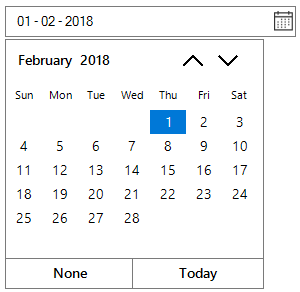
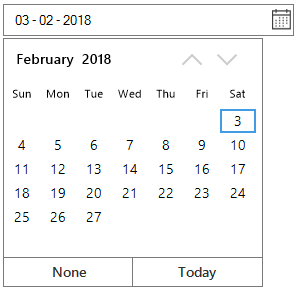
WF-41005 - Publish documentation for SfCalendar control & WF-41008 - Ensure the Screenshot, Content, Spell Errors in documentation for SfDateTimeEdit control

diff --git a/WindowsForms/SfCalendar/appearance.md b/WindowsForms/SfCalendar/appearance.md
@@ -1,6 +1,6 @@
 ---
 layout: post
-title: Appearance of header, footer and cells of SfCalendar control for Windows Forms
+title: Appearance of SfCalendar control for Windows Forms
 description: The appearance of header, footer and cells.
 platform: WindowsForms
 control: SfCalendar
@@ -456,32 +456,6 @@ Me.sfCalendar.NavigationButtonAlignment = Syncfusion.WinForms.Input.Enums.Naviga
 
 ![](appearance-images/navbuttonalignboth.png)
 
-## Change the visibility of the Vertical splitter
-
-Visibility of vertical splitter in calendar control can be customized by setting the `ShowVerticalSplitter`property. The following code example illustrates the same.
-
-{% tabs %}
-
-{% highlight C# %}
-
-// Indicating whether the dates of each columns in the SfCalendar are separated with vertical splitter.
-
-this.sfCalendar.ShowVerticalSplitter = true;
-
-{% endhighlight  %}
-
-{% highlight VB %}
-
-' Indicating whether the dates of each columns in the SfCalendar are separated with vertical splitter.
-
-Me.sfCalendar.ShowVerticalSplitter = true
-
-{% endhighlight  %}
-
-{% endtabs %}
-
-![](appearance-images/verticalsplitter.png)
-
 ## Change the visibility of the footer Today or None Button
 
 Visibility of the calendar footer Today/None button can be customized by using `ShowToday` and `ShowNone` properties. The following code example illustrates the same.
@@ -537,3 +511,53 @@ Me.sfCalendar.ShowToday = false
 {% endtabs %}
 
 ![](appearance-images/shownone.png)
+
+## Customize splitter appearance
+
+Visibility of splitters in calendar control can be customized by setting the `ShowHorizontalSplitter` and `ShowVerticalSplitter` properties respectively. Also splitters color can be customized by `HorizontalSplitterColor` and `VerticalSplitterColor` for horizontal and vertical Splitters respectively. The following code example illustrates the same.
+
+{% tabs %}
+
+{% highlight C# %}
+
+// Enable Horizontal splitter
+
+ this.sfCalendar.ShowHorizontalSplitter = true;
+
+// Enable Vertical splitter
+
+this.sfCalendar.ShowVerticalSplitter = true;
+
+//  color used draw the Horizontal splitter in cell view
+
+this.sfCalendar.Style.HorizontalSplitterColor = Color.Red;
+
+// color used draw the vertical splitter in cell view
+
+this.sfCalendar.Style.VerticalSplitterColor = Color.Green;
+
+{% endhighlight  %}
+
+{% highlight VB %}
+
+' Enable Horizontal splitter
+
+Me.sfCalendar.ShowHorizontalSplitter = true
+
+' Enable Vertical splitter
+
+Me.sfCalendar.ShowVerticalSplitter = true
+
+'  color used draw the Horizontal splitter in cell view
+
+Me.sfCalendar.Style.HorizontalSplitterColor = Color.Red
+
+' color used draw the vertical splitter in cell view
+
+Me.sfCalendar.Style.VerticalSplitterColor = Color.Green
+
+{% endhighlight  %}
+
+{% endtabs %}
+
+![](appearance-images/splittercolor.png)

diff --git a/WindowsForms/SfDateTimeEdit/Editing-Support.md b/WindowsForms/SfDateTimeEdit/Editing-Support.md
@@ -50,7 +50,7 @@ dateTimeEdit.DateTimeEditingMode = DateTimeEditingMode.Default
 
 ## Mask Editing
 
-The Mask Edit mode provides an easy and reliable way of collecting user input and displaying standard data in a specific format. In Mask editing mode the date will be separated into different fields such as Date, Month, Year, Minutes, Hours and Seconds. The field can be updated by selecting the field and pressing the UP or Down arrow to increment or decrement the selected field. The following code snippets illustrates the same.
+The Mask Edit mode provides an easy and reliable way of collecting user input and displaying standard data in a specific format. In Mask editing mode the date will be separated into different fields such as Date, Month, Year, Minutes, Hours and Seconds. The field can be updated by selecting the field and pressing the UP or DOWN arrow to increment or decrement the selected field. The following code snippets illustrates the same.
 
 {% tabs %}
 
@@ -60,7 +60,7 @@ Syncfusion.WinForms.Input.SfDateTimeEdit dateTimeEdit = new Syncfusion.WinForms.
 
 this.Controls.Add(dateTimeEdit);
 
-dateTimeEdit.Value = new DateTime(2017, 6, 27);
+dateTimeEdit.Value = new DateTime(2018, 2, 01);
 
 dateTimeEdit.DateTimeEditingMode = DateTimeEditingMode.Mask;
 
@@ -72,7 +72,7 @@ Dim dateTimeEdit As Syncfusion.WinForms.Input.SfDateTimeEdit = New Syncfusion.Wi
 
 Me.Controls.Add(dateTimeEdit)
 
-dateTimeEdit.Value = New DateTime(2017, 6, 27)
+dateTimeEdit.Value = New DateTime(2018, 2, 1)
 
 dateTimeEdit.DateTimeEditingMode = DateTimeEditingMode.Mask
 
@@ -84,7 +84,7 @@ dateTimeEdit.DateTimeEditingMode = DateTimeEditingMode.Mask
 
 ## ReadOnly
 
-This control supports ReadOnly which is used to restrict edit date and time fields in the `SfDateTimeEdit`. Set ReadOnly as **true** restricts the text editing in SfDateTimeEdit and user can change the Value only by clicking UpDown buttons or pick the date from the DropDown SfCalendar. The following code snippets illustrates the same.
+This control supports `ReadOnly` which is used to restrict edit date and time fields in the `SfDateTimeEdit`. Set ReadOnly as **true** restricts the text editing in `SfDateTimeEdit` and user can change the Value only by clicking UpDown buttons or pick the date from the DropDown `SfCalendar`. The following code snippets illustrates the same.
 
 {% tabs %}
 

diff --git a/WindowsForms/SfDateTimeEdit/Appearance.md b/WindowsForms/SfDateTimeEdit/Appearance.md
@@ -43,7 +43,7 @@ Me.dateTimeEdit.ShowUpDown = false
 
 ![](appearance-images/showupdown.png)
 
-## Customize the DropDown Button
+## Change visibility of DropDown Button
 
 DropDown button in SfDateTimeEdit allows to open the Popup Calendar by Mouse interaction. Visibility of DropDown button can be changed by `ShowDropDown` property. The following code snippets illustrates the same.
 
@@ -77,10 +77,6 @@ Me.dateTimeEdit.ShowDropDown = false
 
 ![](appearance-images/showdropdown.png)
 
-## Change Dropdown Calendar Size
-
-Size of Dropdown calendar to pick the date for SfDateTimeEdit can be changed `DropDownSize`.
-
 ## DropDown Calendar Size customization
 
 Size of the dropdown calendar can be customized by `DropDownSize` property. The following code snippets illustrates the same.
@@ -111,7 +107,7 @@ Me.dateTimeEdit.Width = 294
 
 ![](appearance-images/dropdownsize.png)
 
-## Customize Calendar
+## Customize Dropdown Calendar Appearance
 
 DropDown Calendar of SfDateTimeEdit can be get from `MonthCalendar` property. All the customization with `MonthCalendar` will be reflected in dropdown calendar of SfDateTimeEdit. The below code snippets illustrates how to change the visibility of footer in dropdown calendar of SfDateTimeEdit.
 
@@ -131,24 +127,26 @@ dateTimeEdit.MonthCalendar.ShowFooter = false
 
 {% endtabs %} 
 
+![](appearance-images/footer.png)
+
 ## Customize DateTimeEdit Appearance
 
-BackColor, ForeColor and BorderColor of control can be customized through `VisualStyle` of SfDateTimeEdit. UpDown and Dropdown button of SfDateTimeEdit control also can be customized through `VisualStyle`. The following code snippets illustrates the customization.
+BackColor, ForeColor and BorderColor of control can be customized through `Style` of SfDateTimeEdit. UpDown and Dropdown button of SfDateTimeEdit control also can be customized through `VisualStyle`. The following code snippets illustrates the customization.
 
 {% tabs %}
 
 {% highlight C# %}
 
-sfDateTimeEdit1.VisualStyle.BorderColor = Color.Green;
+sfDateTimeEdit1.Style.BorderColor = Color.Red;
 
 {% endhighlight  %}
 
 {% highlight VB %}
 
-sfDateTimeEdit1.VisualStyle.BorderColor = Color.Green
+sfDateTimeEdit1.Style.BorderColor = Color.Red
 
 {% endhighlight  %}
 
 {% endtabs %} 
 
-
+![](appearance-images/bordercolor.png)

diff --git a/WindowsForms/SfCalendar/navigation.md b/WindowsForms/SfCalendar/navigation.md
@@ -69,6 +69,49 @@ Me.sfCalendar.ViewMode = Syncfusion.WinForms.Input.Enums.CalendarViewType.All
 
 {% endtabs %}
 
+## Handle view change
+
+`ViewChanging` event occurs when click on the Calendar Header text to change the view from one view to another view. The following code example illustrates the same.
+
+{% tabs %}
+
+{% highlight C# %}
+
+// Invoked when the view changed.
+
+ this.sfCalendar.ViewChanging += SfCalendar_ViewChanging;
+
+  private void SfCalendar_ViewChanging(Syncfusion.WinForms.Input.SfCalendar sender, Syncfusion.WinForms.Input.Events.ViewChangingEventArgs args)
+        {
+            if(args.NewViewType == Syncfusion.WinForms.Input.Enums.CalendarViewType.Year)
+            {
+                args.Cancel = true;
+            }
+        }
+
+{% endhighlight  %}
+
+{% highlight VB %}
+
+' Invoked when the view changed.
+
+Me.sfCalendar.ViewChanging = (Me.sfCalendar.ViewChanging + SfCalendar_ViewChanging)
+
+    Private Sub SfCalendar_ViewChanging(ByVal sender As 
+    Syncfusion.WinForms.Input.SfCalendar, ByVal args As Syncfusion.WinForms.Input.Events.ViewChangingEventArgs)
+      
+        If (args.NewViewType = Syncfusion.WinForms.Input.Enums.CalendarViewType.Year) Then
+      
+            args.Cancel = true
+      
+        End If
+        
+    End Sub
+
+{% endhighlight  %}
+
+{% endtabs %}
+
 ## Navigation through mouse
 
 It is possible to navigate from one view to other views by using the mouse which is done by clicking the header of the Calendar control in Backward direction. Also by selecting the month or year or decade cell to navigate from one to other views in Forward direction. 
@@ -93,7 +136,7 @@ N> Can navigate multiple views through mouse when `ViewMode` property value as A
 
 ## Handle Navigation
 
-`Navigating` event occurs when press navigation buttons to move next or previous month, year or decade in calendar. The following codes illustrates the same.
+`Navigating` event occurs when press navigation buttons to move next or previous month, year or decade in calendar. The following code example illustrates the same.
 
 {% tabs %}
 
@@ -134,3 +177,4 @@ End Sub
 {% endhighlight  %}
 
 {% endtabs %}
+

diff --git a/WindowsForms/SfDateTimeEdit/watermark.md b/WindowsForms/SfDateTimeEdit/watermark.md
@@ -9,11 +9,11 @@ documentation: ug
 
 # Watermark
 
-`SfDateTimeEdit` control allows to set the `Value` as null in Default mode of `DateTimeEditingMode` and watermark can be shown on null value.
+`SfDateTimeEdit` control allows to set the `Value` as null in default mode of `DateTimeEditingMode` and watermark can be shown on null value.
 
 ## Null Value
 
-`SfDateTimeEdit` control accepts null values only when the `DateTimeEditingMode` is Default. NullValue support in the `SfDateTimeEdit` control can be enabled by setting the `AllowNull` property to true. If the Value is null and the editing text box is empty then the `Watermark` will be displayed as the Text in `SfDateTimeEdit` control.
+`SfDateTimeEdit` control accepts null values only when the `DateTimeEditingMode` is default. NullValue support in the `SfDateTimeEdit` control can be enabled by setting the `AllowNull` property to true. If the value is null and the editing text box is empty then the `Watermark` will be displayed as the Text in `SfDateTimeEdit` control.
 
 {% tabs %}
 
@@ -47,7 +47,7 @@ dateTimeEdit.Value = Nothing
 
 ## Change Watermark
 
-Watermark is the help content to display in the `SfDateTimeEdit` control when `AllowNull` property is true and the Value property is set to null. `Watermark` text will be displayed only when the control lost its focus. The context of the Watermark text can be assigned by set the `Watermark` of SfDateTimeEdit.
+Watermark is the help content to display in the `SfDateTimeEdit` control when `AllowNull` property is true and the `Value` property is set to null. `Watermark` text will be displayed only when the control lost its focus. The context of the watermark text can be assigned by set the `Watermark` of SfDateTimeEdit.
 
 {% tabs %}
 

diff --git a/WindowsForms/SfDateTimeEdit/navigation.md b/WindowsForms/SfDateTimeEdit/navigation.md
@@ -13,9 +13,9 @@ documentation: ug
 
 ## Navigate to DropDown Calendar
 
-DropDown Calendar control to pick the date `Value` for `SfDateTimeEdit` can be opened by `ALT + DOWN` arrow combinations. DropDown calendar can be closed by `ALT + UP` and `ALT + Down` key combinations if dropdown calendar is already opened. State of DropDown calendar can be get from `IsDropDowOpen` of SfDateTimeEdit.
+DropDown Calendar control to pick the date `Value` for `SfDateTimeEdit` can be opened by `ALT + DOWN` arrow combinations. DropDown calendar can be closed by `ALT + UP` and `ALT + DOWN` key combinations if dropdown calendar is already opened. State of DropDown calendar can be get from `IsDropDowOpen` of SfDateTimeEdit.
 
-DropDown Calendar provides key board support to change the selected date by keyboard. Date from different month, year or decade can be selected by navigate to next view on press `CTRL + UP` and navigate back to the old view on `CTRL + Down` key combinations. Selection in views can be changed by Right and Left arrow keys.
+DropDown Calendar provides key board support to change the selected date by keyboard. Date from different month, year or decade can be selected by navigate to next view on press `CTRL + UP` and navigate back to the old view on `CTRL + DOWN` key combinations. Selection in views can be changed by Right and Left arrow keys.
 
 ### Handle DropDown Calendar Programmatically
 

diff --git a/WindowsForms/SfCalendar/selection.md b/WindowsForms/SfCalendar/selection.md
@@ -76,6 +76,16 @@ Me.SfCalendar1.AllowMultipleSelection = true
 
 ![](selection-images/multiselection.png)
 
+### Select multiple dates through mouse
+
+`SfCalendar` allows to select the multiple dates through mouse by selecting the cells while pressing `Ctrl` key. 
+
+Range Selection can be achieved by pressing the `Shift` key, Select a date to set the Start date of the Range Selection and Select the End date when pressing the `Shift` Key. 
+
+### Select multiple dates through keyboard 
+
+`SfCalendar` allows to select the multiple dates through keyboard by selecting the cells while pressing `Shift + UP/DOWN/LEFT/RIGHT Arrow` keys. 
+
 ## Disable selection
 
 `BlackoutDates` refers the disabled dates that restrict the user from selecting it. A date collection can be provided to set the `BlackoutDates` for this control, use the following code example.
@@ -148,7 +158,7 @@ calendar.Value = new DateTime(2018, 1, 12);
 
 calendar.MinDate = new DateTime(2018, 1, 03);
 
-calendar.MaxDate = new DateTime(2018, 1, 30);
+calendar.MaxDate = new DateTime(2018, 1, 29);
 
 {% endhighlight  %}
 
@@ -164,7 +174,7 @@ calendar.Value = New DateTime(2018, 1, 12)
 
 calendar.MinDate = new DateTime(2018, 1, 03)
 
-calendar.MaxDate = new DateTime(2018, 1, 30)
+calendar.MaxDate = new DateTime(2018, 1, 29)
 
 {% endhighlight  %}
 

diff --git a/WindowsForms/SfDateTimeEdit/validation.md b/WindowsForms/SfDateTimeEdit/validation.md
@@ -54,9 +54,15 @@ dateTimeEdit.ValidationOption = ValidationOption.MinDateTime
 
 {% endtabs %} 
 
+### DateTime Validation
+
+The given value can be treated as a date/time value. It can be validated based on the DateTime format with culture. There is an error indicating image will be shown, when the validation test gets failed. 
+
+![](validation-images/errorsymbol.png)
+
 ## Handle Validation
 
-``ValidatingEventArgs` provides data for the `Validating` event of the SfDateTimeEdit control. By handling the `Validating` event, it is possible to find the cause of the validation failed with the error message in the `ValidatingEventArgs`.
+`ValidatingEventArgs` provides data for the `Validating` event of the SfDateTimeEdit control. By handling the `Validating` event, it is possible to find the cause of the validation failed with the error message in the `ValidatingEventArgs`.
 
 * **IsError** - To indicate whether the entered date and time is valid or in-valid.
 

diff --git a/WindowsForms/SfDateTimeEdit/DateRange.md b/WindowsForms/SfDateTimeEdit/DateRange.md
@@ -41,9 +41,9 @@ this.Controls.Add(dateTimeEdit);
 
 dateTimeEdit.Value = new DateTime(2018, 2, 1);
 
-dateTimeEdit.MinDateTime = new DateTime(2018, 2, 1);
+dateTimeEdit.MinDateTime = new DateTime(2018, 2, 3);
 
-dateTimeEdit.MaxDateTime = new DateTime(2018, 2, 28);
+dateTimeEdit.MaxDateTime = new DateTime(2018, 2, 27);
 
 {% endhighlight  %}
 
@@ -55,9 +55,9 @@ Me.Controls.Add(dateTimeEdit)
 
 dateTimeEdit.Value = New DateTime(2018, 2, 1)
 
-dateTimeEdit.MinDateTime = New DateTime(2018, 2, 1)
+dateTimeEdit.MinDateTime = New DateTime(2018, 2, 3)
 
-dateTimeEdit.MaxDateTime = New DateTime(2018, 2, 28)
+dateTimeEdit.MaxDateTime = New DateTime(2018, 2, 27)
 
 {% endhighlight  %}
 

diff --git a/WindowsForms/SfCalendar/Overview.md b/WindowsForms/SfCalendar/Overview.md
@@ -9,7 +9,7 @@ documentation: ug
 
 # Overview
 
-`SfCalendar` is a control that allows users to select a date from a calendar and various customization options for the calendar. Also provides multiple views of the month, year, decade and century so that dates can be displayed and support for multiple selection and complete control customization.
+`SfCalendar` is a control that allows to select a date from a calendar and various customization options for the calendar. Also provides multiple views of the month, year, decade and century so that dates can be displayed and support for multiple selection and complete control customization.
 
 ## Key Features
 

diff --git a/WindowsForms/SfDateTimeEdit/Getting-Started.md b/WindowsForms/SfDateTimeEdit/Getting-Started.md
@@ -33,7 +33,7 @@ Create new Windows Forms Project in Visual Studio to display SfDateTimEdit with 
 
 ### Adding control via Designer
 
-`SfDateTimEdit` control can be added to the application by dragging it from Toolbox and dropping it in Designer view. The required assembly references will be added automatically.
+`SfDateTimEdit` control can be added to the application by dragging it from Toolbox and dropping it in designer view. The required assembly references will be added automatically.
 
 ![](getting-started-images/toolbox.png)
 

diff --git a/WindowsForms/SfDateTimeEdit/DateTimeDisplayPattern.md b/WindowsForms/SfDateTimeEdit/DateTimeDisplayPattern.md
@@ -45,7 +45,7 @@ dateTimeEdit.DateTimePattern = DateTimePattern.LongDate;
 
 {% highlight VB %}
 
-Dim dateTimeEdit As Syncfusion.WinForms.Input.SfDateTimeEdit = New Syncfusion.WinForms.Input.
+Dim dateTimeEdit As Syncfusion.WinForms.Input.SfDateTimeEdit = New Syncfusion.WinForms.Input.SfDateTimeEdit
 
 Me.Controls.Add(dateTimeEdit)
 
